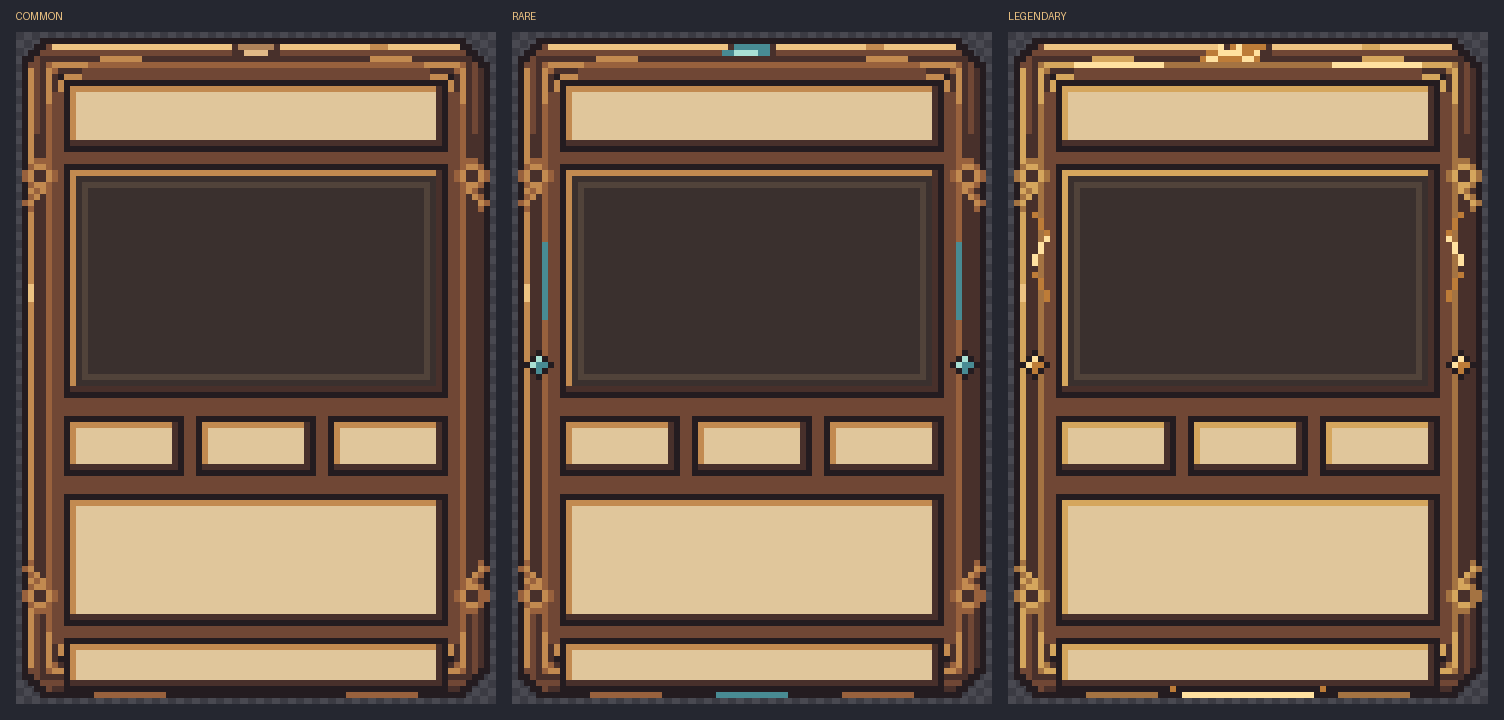
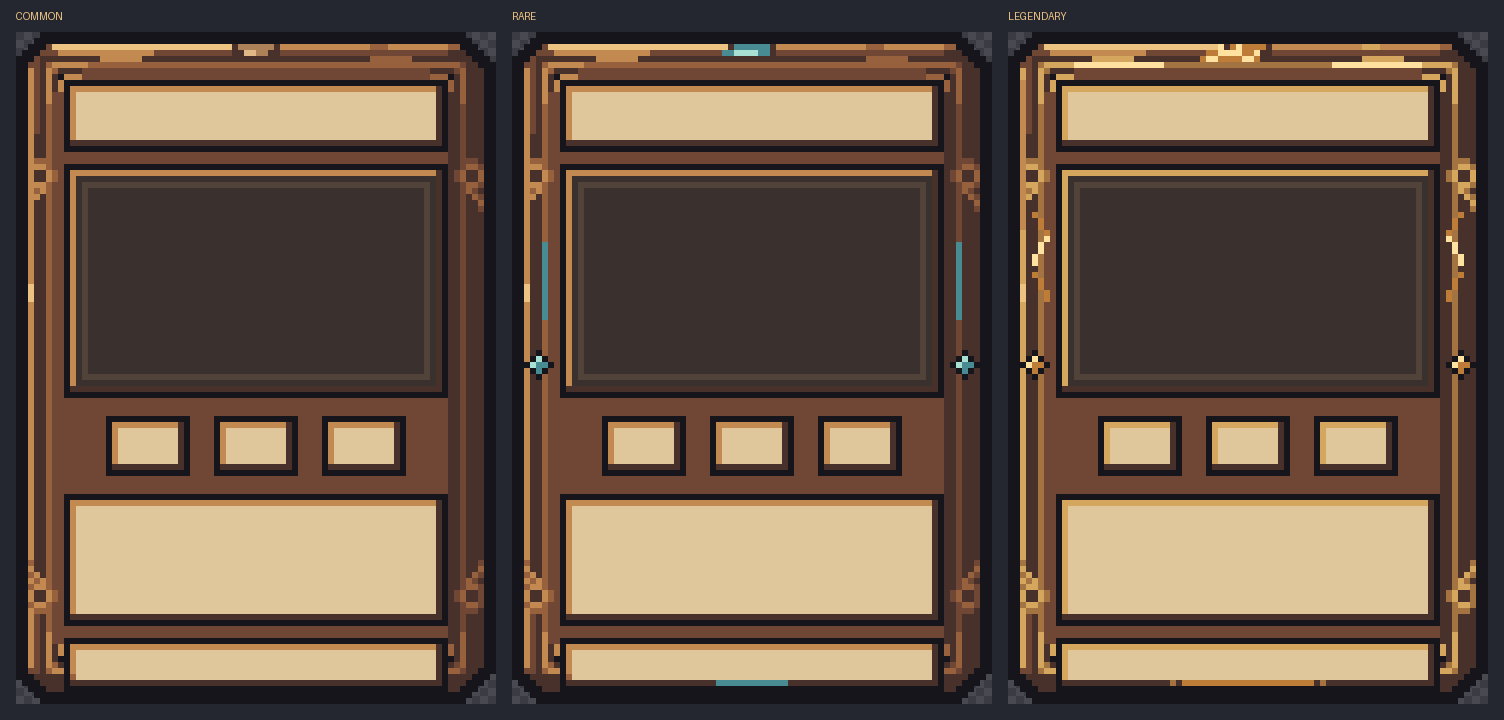
Strengthen card outlines, unify lighting and narrow stat boxes

Changed region(s): [[0.0, 0.0306, 1.0, 0.9778], [0.4375, 0.5806, 0.5625, 0.6722]]

diff --git a/cards.px.js b/cards.px.js
@@ -1,6 +1,6 @@
 // Original empty autobattler cards. Render: node bin/pxl.js build cards.px.js
 // All variants share panel bounds. Coordinates are documented in assets/cards/README.md.
-pal({ k:'#241c20', d:'#48302b', b:'#704735', c:'#98613d', l:'#c28a50',
+pal({ k:'#17151c', d:'#48302b', b:'#704735', c:'#98613d', l:'#c28a50',
       h:'#edc382', p:'#e0c69b', q:'#c8aa7d', i:'#3a302e', j:'#51433a',
       a:'#ae8259', A:'#e1b987' })
 
@@ -39,9 +39,9 @@ sprite('_gem',{w:5,h:5},grid(0,0,`
   .kak.
   ..k..`))
 
-sprite('card_common',{w:80,h:112},
+sprite('_common',{w:80,h:112},
   // Chamfered silhouette and laminated bronze edge.
-  poly([5,1,75,1,79,5,79,107,75,111,5,111,1,107,1,5],'k'),
+  poly([5,0,75,0,80,5,80,107,75,112,5,112,0,107,0,5],'k'),
   poly([6,2,74,2,78,6,78,106,74,110,6,110,2,106,2,6],'b'),
   hline(6,2,68,'h'),vline(2,6,100,'l'),hline(6,109,68,'d'),vline(77,6,100,'d'),
   box(4,4,72,104,'d'),box(5,5,70,102,'c'),
@@ -58,18 +58,18 @@ sprite('card_common',{w:80,h:112},
   ...panel(8,22,64,39,'i'),
   // A shallow inner edge makes the art aperture read as a distinct window.
   box(11,25,58,33,'j'),
-  ...panel(8,64,20,10,'p'),...panel(30,64,20,10,'p'),...panel(52,64,20,10,'p'),
+  ...panel(15,64,14,10,'p'),...panel(33,64,14,10,'p'),...panel(51,64,14,10,'p'),
   ...panel(8,77,64,22,'p'),
   ...panel(8,101,64,9,'p'),
   // A small, structural bronze clasp. No labels or game content baked in.
   rect(36,2,8,3,'d'),hline(37,2,6,'a'),hline(38,3,4,'A'),
-  hline(13,110,12,'c'),hline(55,110,12,'c'))
+  hline(13,108,12,'b'),hline(55,108,12,'b'))
 
-sprite('card_rare',{base:'card_common',swap:{a:'#488b93',A:'#a9e0d4'}},
+sprite('_rare',{base:'_common',swap:{a:'#488b93',A:'#a9e0d4'}},
   stamp('_gem',2,53),stamp('_gem',73,53),
   vline(5,35,13,'a'),vline(74,35,13,'a'),
-  grid(35,3,'aaAAAAaa'),hline(34,110,12,'a'))
-sprite('card_legendary',{base:'card_common',swap:{a:'#bd7c38',A:'#ffe1a0',c:'#a47342',l:'#d5a65d'}},
+  grid(35,3,'aaAAAAaa'),hline(34,108,12,'a'))
+sprite('_legendary',{base:'_common',swap:{a:'#bd7c38',A:'#ffe1a0',c:'#a47342',l:'#d5a65d'}},
   stamp('_gem',2,53),stamp('_gem',73,53),
   // Raised leaf carving stays entirely outside the content panels.
   line(4,30,6,34,'a'),line(6,34,4,38,'A'),line(4,40,6,44,'a'),
@@ -78,5 +78,24 @@ sprite('card_legendary',{base:'card_common',swap:{a:'#bd7c38',A:'#ffe1a0',c:'#a4
     ...A..A...
     .aaAAAAaa.
     aAAaaaaAAa`),
-  hline(29,110,22,'A'),px(27,109,'a'),px(52,109,'a'),
+  hline(29,108,22,'a'),px(27,108,'c'),px(52,108,'c'),
   hline(11,5,15,'A'),hline(54,5,15,'A'))
+
+// Finish all rarities under one upper-left light source. Recessed writing
+// surfaces are deliberately excluded, so lighting never reduces text contrast.
+for (const rarity of ['common','rare','legendary']) {
+  sprite('card_'+rarity, {base:'_'+rarity},
+    recolor({h:'l',l:'c',c:'b',b:'d',A:'a'}, (x,y) => x>=72 || y>=107),
+    recolor({h:'l',l:'c',A:'a'}, (x,y) => x>=40 && y<8),
+    // Two-pixel near-black silhouette; ornament cannot break the outline.
+    hline(5,0,70,'k'),hline(5,1,70,'k'),
+    hline(5,110,70,'k'),hline(5,111,70,'k'),
+    vline(0,5,102,'k'),vline(1,5,102,'k'),
+    vline(78,5,102,'k'),vline(79,5,102,'k'),
+    line(0,5,5,0,'k'),line(1,5,5,1,'k'),
+    line(74,0,79,5,'k'),line(74,1,78,5,'k'),
+    line(0,106,5,111,'k'),line(1,106,5,110,'k'),
+    line(74,111,79,106,'k'),line(74,110,78,106,'k'),
+    // The illuminated rim stays inside the contour, away from the shadow edge.
+    hline(7,2,28,'h'),hline(7,3,16,'l'),vline(2,8,25,'l'))
+}

diff --git a/assets/cards/export.py b/assets/cards/export.py
@@ -30,8 +30,8 @@ for i,v in enumerate(variants):
         canvas.paste(im,(x,32),im)
 canvas.save(out/'previews'/'comparison.png')
 # Rarity decorations must never change content geometry or contaminate text fields.
-regions=[(10,10,60,8),(12,26,56,31),(10,66,16,6),(32,66,16,6),
-         (54,66,16,6),(10,79,60,18),(10,103,60,5)]
+regions=[(10,10,60,8),(12,26,56,31),(17,66,10,6),(35,66,10,6),
+         (53,66,10,6),(10,79,60,18),(10,103,60,5)]
 images=[Image.open(out/f'{v}.png').convert('RGBA') for v in variants]
 for x,y,w,h in regions:
     crops=[im.crop((x,y,x+w,y+h)) for im in images]

diff --git a/assets/cards/README.md b/assets/cards/README.md
@@ -23,9 +23,9 @@ Top-left origin; x, y, width, height. Positions are identical for every rarity.
 | --- | --- | --- | --- | --- |
 | Name | 10 | 10 | 60 | 8 |
 | Art (inside inner lip) | 12 | 26 | 56 | 31 |
-| ATK | 10 | 66 | 16 | 6 |
-| HP | 32 | 66 | 16 | 6 |
-| CD | 54 | 66 | 16 | 6 |
+| ATK | 17 | 66 | 10 | 6 |
+| HP | 35 | 66 | 10 | 6 |
+| CD | 53 | 66 | 10 | 6 |
 | Effect text | 10 | 79 | 60 | 18 |
 | Type / tribe / tags | 10 | 103 | 60 | 5 |
 
@@ -37,4 +37,8 @@ The first pass had a 4px-high type field and a smaller effect area. The final la
 
 ## Validation
 
-The exporter checks exact dimensions, binary alpha (0/255), transparent corners, unchanged render pixels, and identical flat content regions across the three variants. Each final PNG uses 11 opaque colors plus transparency. All previews use nearest-neighbor scaling; the comparison adds a checkerboard only for display.
+The exporter checks exact dimensions, binary alpha (0/255), transparent corners, unchanged render pixels, and identical flat content regions across the three variants. Common and Rare use 11 opaque colors plus transparency; Legendary uses 13 opaque colors plus transparency. All previews use nearest-neighbor scaling; the comparison adds a checkerboard only for display.
+
+## Outline and lighting revision
+
+Continuous 2px near-black contour, upper-left rim highlights, and reduced right/bottom reflections establish a single light direction. The stat row is centered at x=15..64 (50px wide), with three 14px outer boxes and 4px gutters. Each 10px interior fits two 3x5 digits; show ATK/HP/CD labels or icons separately in the game UI. No final values are baked in.
